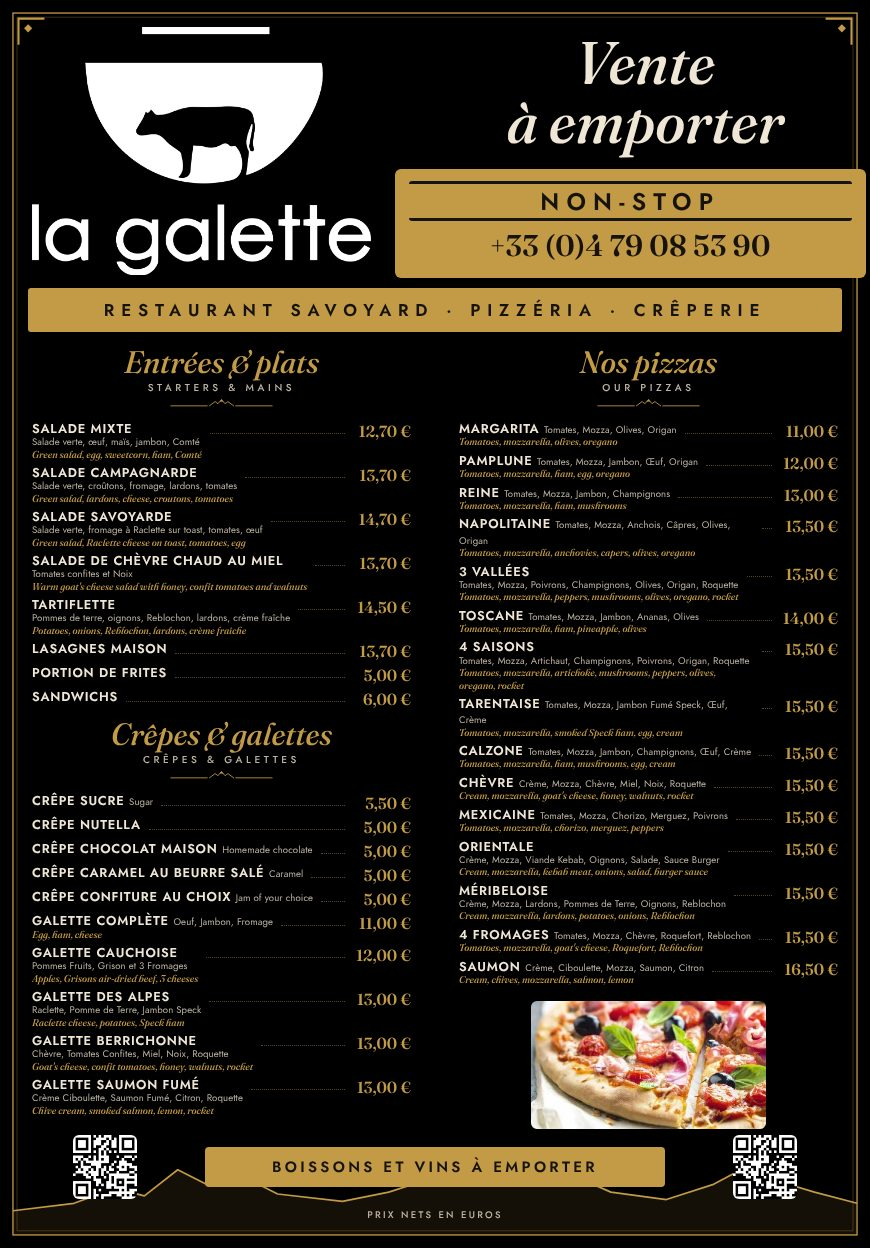
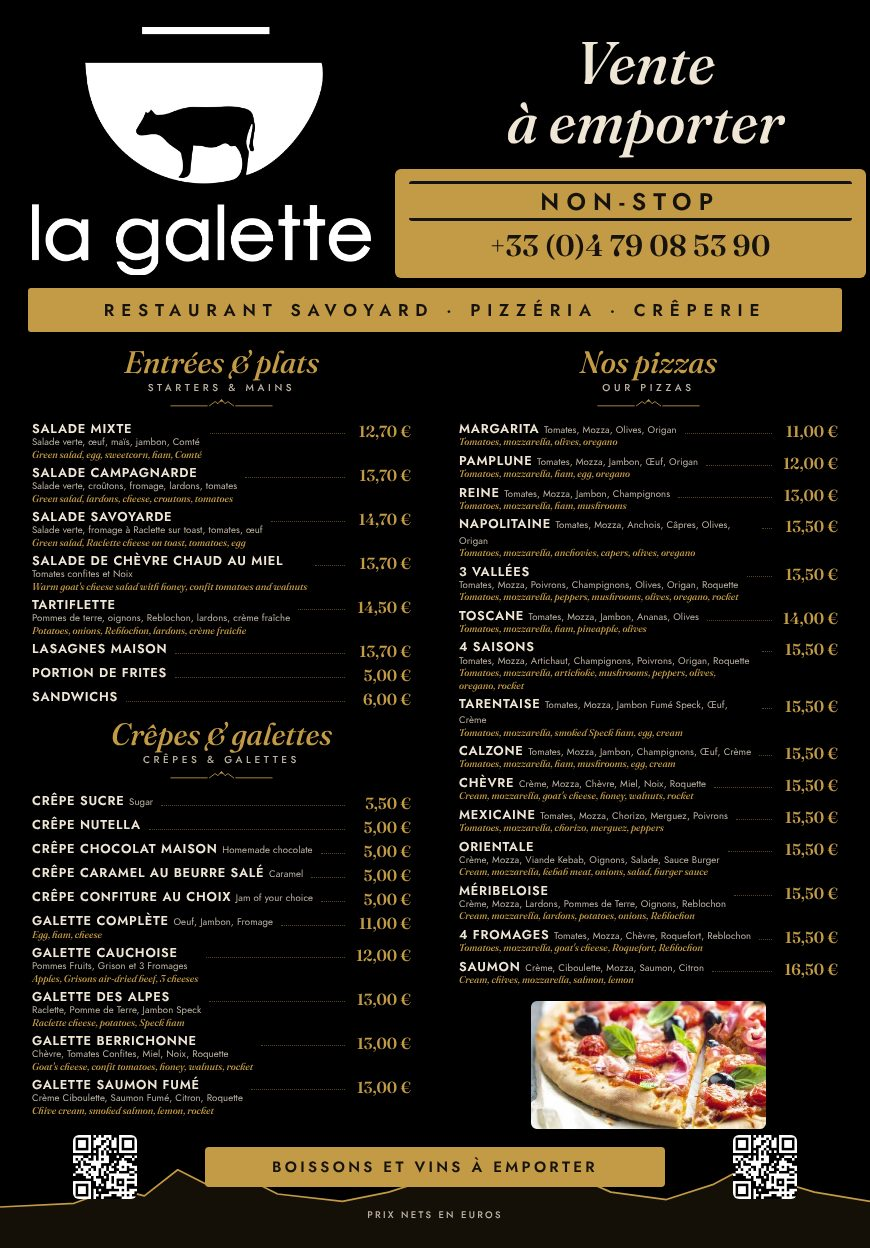
Présentation La Galette : supports extérieurs sans filet
Claude-Session: https://claude.ai/code/session_014aNwerFKka7aNuCCrqmi84

Changed region(s): [[0.0, 0.0, 0.0621, 1.0], [0.9621, 0.2188, 1.0, 1.0], [0.931, 0.0, 0.9931, 0.125]]

diff --git a/presentation-galette.html b/presentation-galette.html
@@ -200,7 +200,7 @@ h1{margin:26px auto 0;max-width:15em;font:italic 500 clamp(34px,9.4vw,58px)/1.06
         <div class="sw"><label class="avant" for="p5-avant">Avant</label><label class="apres" for="p5-apres">Après</label></div>
         <div class="shots">
           <a class="shot avant" href="presentation/avant-emporter.jpg"><span class="tag">Avant</span><img src="presentation/avant-emporter.jpg" width="986" height="1414" loading="lazy" decoding="async" alt="Adhésif actuel, vente à emporter"><span class="zoom" aria-hidden="true"><svg class="i" viewBox="0 0 24 24"><circle cx="10.5" cy="10.5" r="6.5"/><path d="M15.5 15.5 20 20M10.5 7.5v6M7.5 10.5h6"/></svg></span></a>
-          <a class="shot apres" href="presentation/apres-emporter.jpg"><span class="tag">Après</span><img src="presentation/apres-emporter.jpg" width="870" height="1248" loading="lazy" decoding="async" alt="Nouvel adhésif proposé, vente à emporter"><span class="zoom" aria-hidden="true"><svg class="i" viewBox="0 0 24 24"><circle cx="10.5" cy="10.5" r="6.5"/><path d="M15.5 15.5 20 20M10.5 7.5v6M7.5 10.5h6"/></svg></span></a>
+          <a class="shot apres" href="presentation/apres-emporter.jpg?v=2"><span class="tag">Après</span><img src="presentation/apres-emporter.jpg?v=2" width="870" height="1248" loading="lazy" decoding="async" alt="Nouvel adhésif proposé, vente à emporter"><span class="zoom" aria-hidden="true"><svg class="i" viewBox="0 0 24 24"><circle cx="10.5" cy="10.5" r="6.5"/><path d="M15.5 15.5 20 20M10.5 7.5v6M7.5 10.5h6"/></svg></span></a>
         </div>
       </figure>
 
@@ -211,7 +211,7 @@ h1{margin:26px auto 0;max-width:15em;font:italic 500 clamp(34px,9.4vw,58px)/1.06
         <div class="sw"><label class="avant" for="p6-avant">Avant</label><label class="apres" for="p6-apres">Après</label></div>
         <div class="shots">
           <a class="shot avant" href="presentation/avant-totem.jpg"><span class="tag">Avant</span><img src="presentation/avant-totem.jpg" width="994" height="1408" loading="lazy" decoding="async" alt="Porte-menu actuel du totem"><span class="zoom" aria-hidden="true"><svg class="i" viewBox="0 0 24 24"><circle cx="10.5" cy="10.5" r="6.5"/><path d="M15.5 15.5 20 20M10.5 7.5v6M7.5 10.5h6"/></svg></span></a>
-          <a class="shot apres" href="presentation/apres-totem.jpg"><span class="tag">Après</span><img src="presentation/apres-totem.jpg" width="908" height="1286" loading="lazy" decoding="async" alt="Nouveau porte-menu proposé pour le totem"><span class="zoom" aria-hidden="true"><svg class="i" viewBox="0 0 24 24"><circle cx="10.5" cy="10.5" r="6.5"/><path d="M15.5 15.5 20 20M10.5 7.5v6M7.5 10.5h6"/></svg></span></a>
+          <a class="shot apres" href="presentation/apres-totem.jpg?v=2"><span class="tag">Après</span><img src="presentation/apres-totem.jpg?v=2" width="908" height="1286" loading="lazy" decoding="async" alt="Nouveau porte-menu proposé pour le totem"><span class="zoom" aria-hidden="true"><svg class="i" viewBox="0 0 24 24"><circle cx="10.5" cy="10.5" r="6.5"/><path d="M15.5 15.5 20 20M10.5 7.5v6M7.5 10.5h6"/></svg></span></a>
         </div>
       </figure>
 
